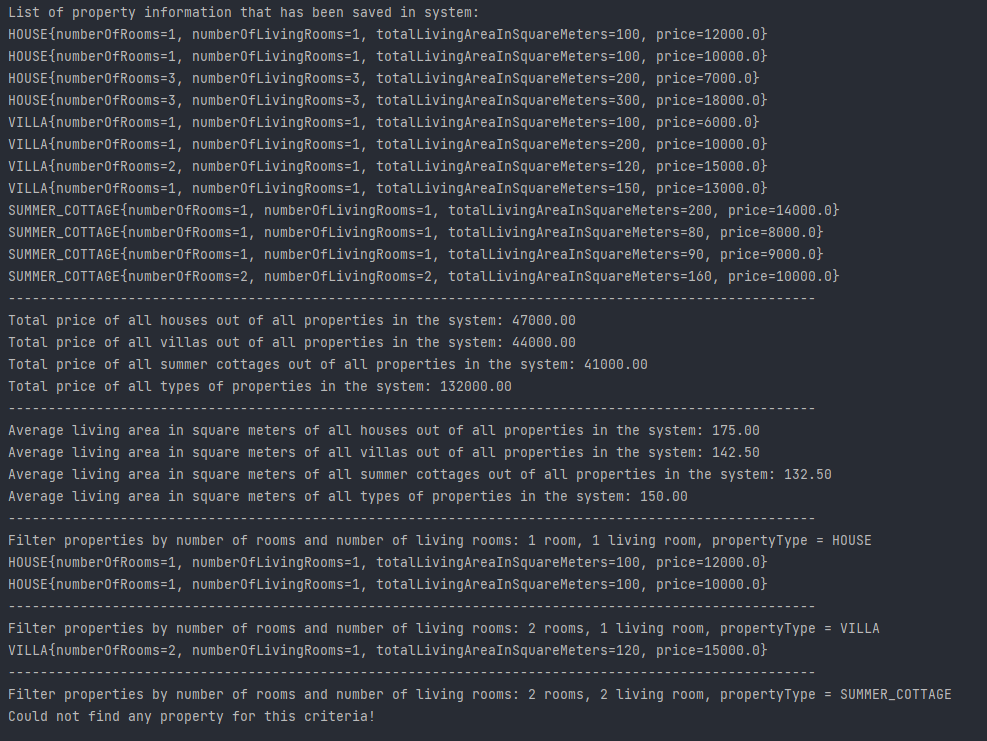
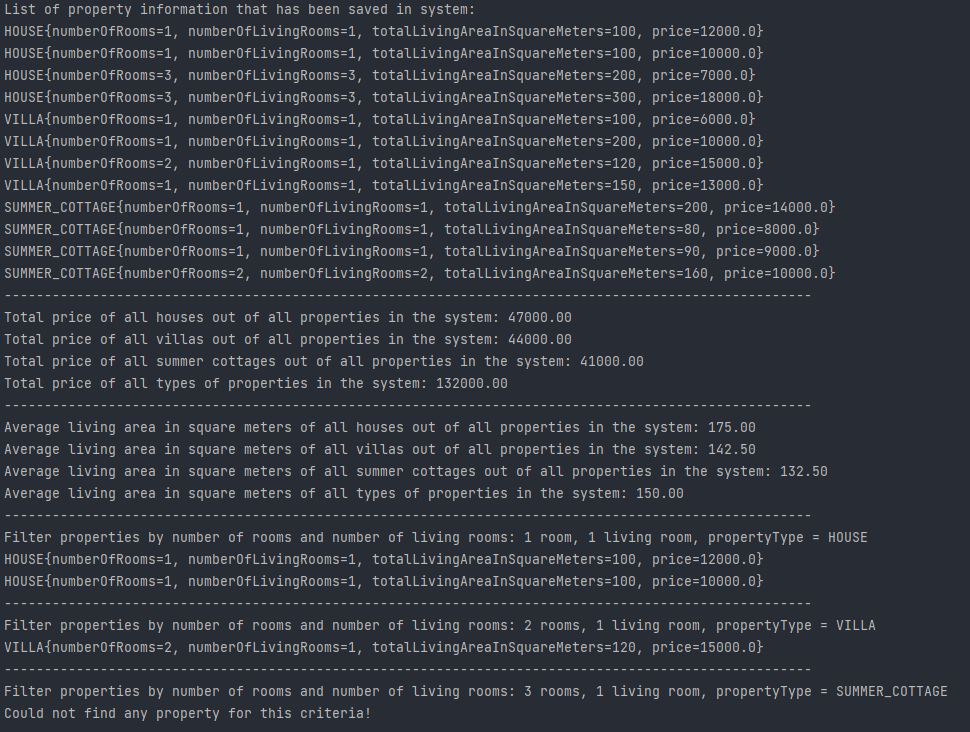
program output screenshot updated

Changed region(s): [[0.0, 0.4208, 0.9897, 0.9918], [0.0, 0.0, 0.866, 0.3907]]

diff --git a/n11-talenthub-cohorts-homework-01/src/main/java/App.java b/n11-talenthub-cohorts-homework-01/src/main/java/App.java
@@ -50,8 +50,8 @@ public class App {
             filteredVillasByRoomsAndLivingRoomNumber.forEach(System.out::println);
         }
         System.out.println("-----------------------------------------------------------------------------------------------------");
-        System.out.println("Filter properties by number of rooms and number of living rooms: 2 rooms, 2 living room, propertyType = SUMMER_COTTAGE");
-        List<Property> filteredSummerCottagesByRoomsAndLivingRoomNumber = propertyService.filterPropertiesByRoomAndLivingRoom(2,1,PropertyType.SUMMER_COTTAGE);
+        System.out.println("Filter properties by number of rooms and number of living rooms: 3 rooms, 1 living room, propertyType = SUMMER_COTTAGE");
+        List<Property> filteredSummerCottagesByRoomsAndLivingRoomNumber = propertyService.filterPropertiesByRoomAndLivingRoom(3,1,PropertyType.SUMMER_COTTAGE);
         if (filteredSummerCottagesByRoomsAndLivingRoomNumber.isEmpty()){
             System.out.println("Could not find any property for this criteria!");
         } else {
